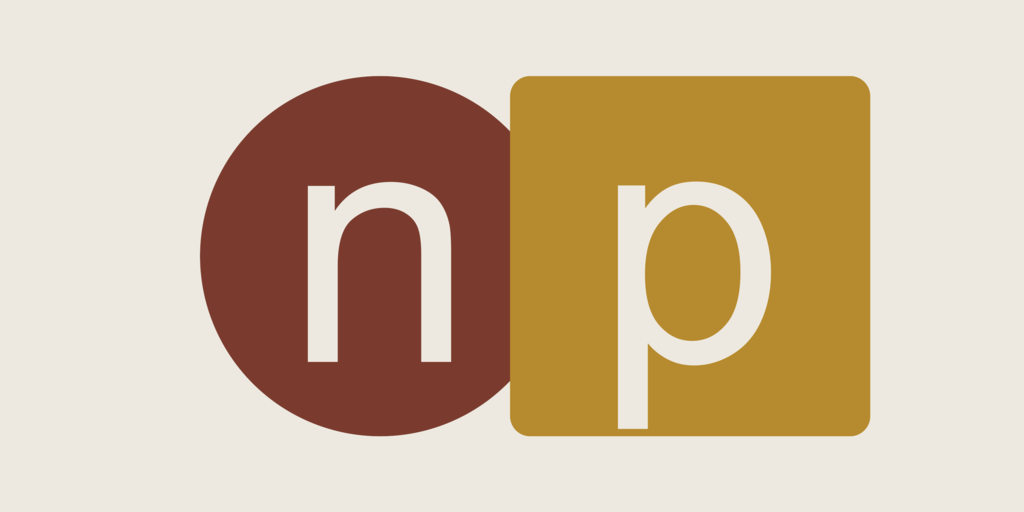
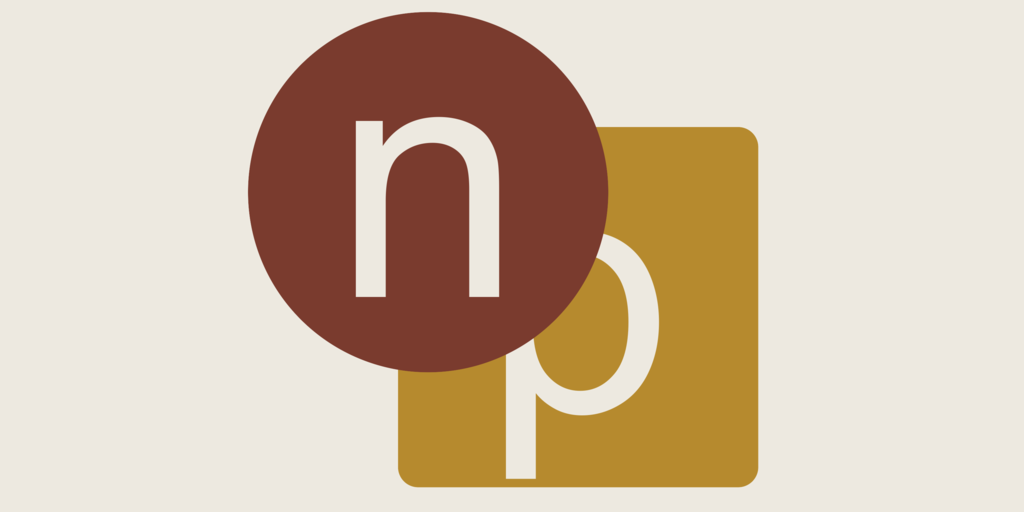
design: rebalance np monogram; trim manifesto to core tenets
- square layered behind circle (corrected z-order)
- shapes positioned so combined visual mass centers on canvas
- letters centered on their respective shapes
- manifesto cut to opening + three commitments only

diff --git a/library/manifesto.md b/library/manifesto.md
@@ -9,32 +9,6 @@ normal is respect and care in kind and understanding
 normal is help over harm
 normal is the objective reality of our subjective experiences
 
-normal is no master class of human
-normal is no expert who knows your body better than you can learn to
-normal is no guru with a private line to anything real
-
-normal is what we give one another
-normal is sharing what we learn
-normal is helping one another in trouble
-
-normal is the truth told plainly
-normal is what you took and what it did
-normal is what you know and what you don't
-normal is ego left at the door
-
-normal is your mind is yours
-normal is your body is yours
-normal is freedom held with care
-
-normal is study before you fly
-normal is weigh before you eat
-normal is bring back what you find
-
-normal is the door open
-normal is the terms clear
-
 you will not harm
 you will not lie
 you will treat every person here as your equal
-
-if you can do that there is a place for you
